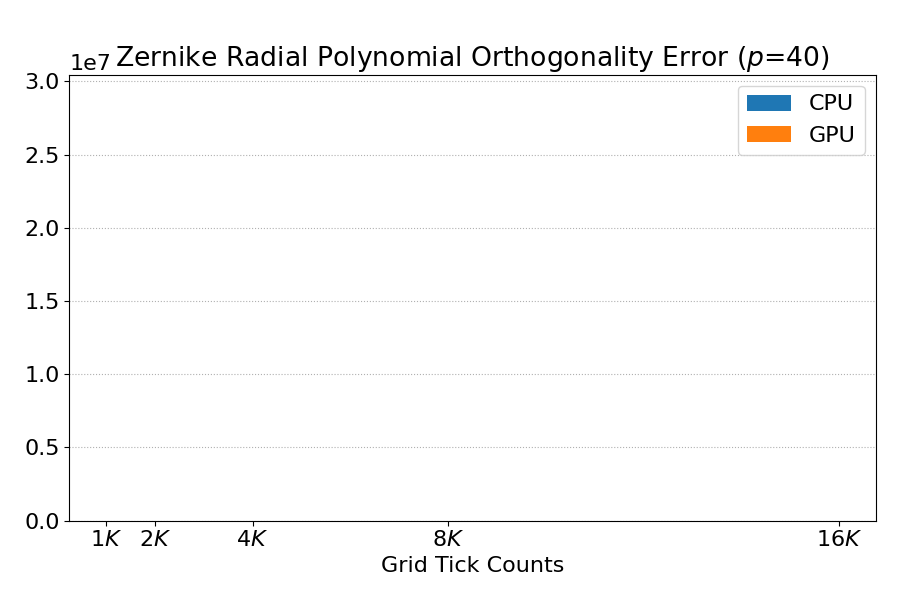
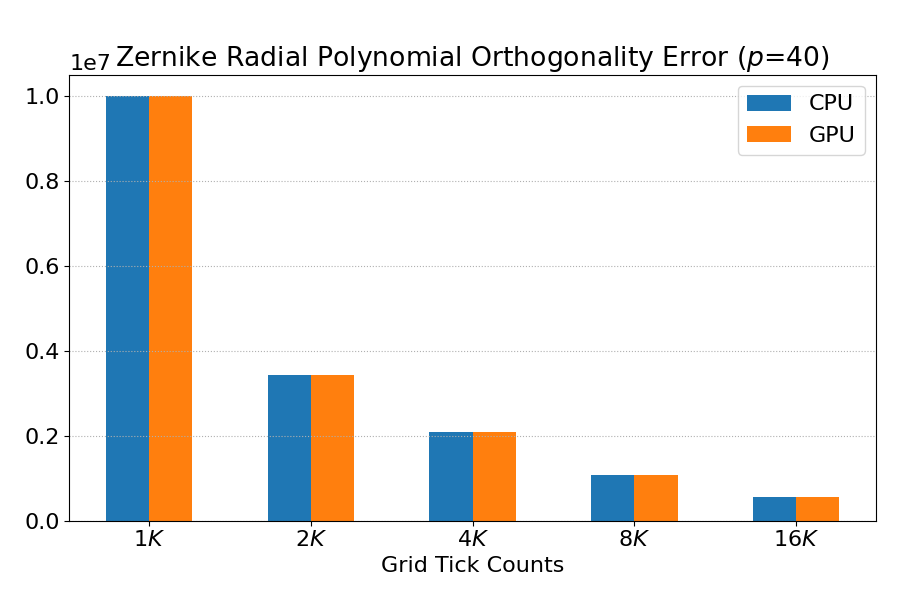
**

diff --git a/ATest_08_Zernike_Orth.py b/ATest_08_Zernike_Orth.py
@@ -169,7 +169,7 @@ def validte_radial_polynomial_ortho( T, debug=0) :
             dr = 1.0/grid_count
 
             rho = torch.linspace( 0, 1, grid_count, device=device )
-            print( "rho  len = ", len( rho ) )
+            print( f"rho  len = {len(rho):_}" )
             rho = rho[ torch.where( rho <= 1 ) ]
 
             error_sum = 0
@@ -178,34 +178,39 @@ def validte_radial_polynomial_ortho( T, debug=0) :
             hash= {}
 
             for p in range( 0, T + 1 ) :
-                for q in range( 0, T + 1 ) :
-                    for l in range( -q, q + 1 ) :
-                        if abs(l) > p or abs(l) > q:
-                            continue
-                        elif ( p - abs(l) )%2 == 1 :
-                            continue
-                        elif ( q - abs(l) )%2 == 1 :
-                            continue
+                for q in range( 0, p + 1 ) :
+                    for n in range( 0, T + 1 ) :
+                        for m in range( 0, n + 1 ) :
+                            if abs(q) > p or abs(m) > n:
+                                continue
+                            elif ( p - abs(q) )%2 == 1 :
+                                continue
+                            elif ( n - abs(m) )%2 == 1 :
+                                continue
+                            pass
+
+                            r_pq = Rpq( p, q, rho, device=device, hash=hash, debug=0 )
+                            r_nm = Rpq( n, m, rho, device=device, hash=hash, debug=0 )
+                            
+                            sum = torch.sum( r_pq*r_nm*rho*dr )*( 2*(p + 1) )
+
+                            expect = [0, 1][ p == q and n == m ]
+
+                            error = torch.abs( expect - sum )
+
+                            if not math.isnan( error ) : 
+                                error_sum += error
+                                error_cnt += torch.numel( r_pq )
+                            else :
+                                print( f"{__file__} : Nan is encountred." )
+                                True
+                            pass
+                            
+                            if debug :
+                                if expect == 1 : print( line )
+                                print( f"[{grid_count:04d}] R[{p:02d}][{q:02d}] , [{n:02d}][{n:02d}] : exptect = {expect}, sum = {sum}, error = {error}", flush=1 )
+                            pass
                         pass
-
-                        r_pl = Rpq( p, l, rho, device=device, hash=hash, debug=0 )
-                        r_ql = Rpq( q, l, rho, device=device, hash=hash, debug=0 )
-                        
-                        sum = torch.sum( r_pl*r_ql*rho*dr )*( 2*(p + 1) )
-
-                        expect = [0, 1][ p == q ]
-
-                        error = torch.abs( expect - sum )
-
-                        if not math.isnan( error ) : 
-                            error_sum += error
-                            error_cnt += torch.numel( r_pl )
-                        else :
-                            print( f"{__file__} : Nan is encountred." )
-                            True
-                        pass
-                        
-                        #debug and print( f"[{p:02d}][{q:02d}] : Rpl({p}, {l:2d})*Rql({q}, {l:2d}) = {sum}, exptect = {expect}, error = {error}", flush=1 )
                     pass
                 pass
             pass
@@ -220,10 +225,8 @@ def validte_radial_polynomial_ortho( T, debug=0) :
 
             if debug : 
                 print( line2 )
-                print( f"device = {device}" )
-                print( f"Radial Grid Count = {grid_count:_}, T = {T}" )
-                print( f"Elapsed time = {elapsed:,f}" )
-                print( f"Error average = {error_avg:,.10f}" )
+                print( f"device = {device}, Radial Grid Count = {grid_count:_}, T = {T}" )
+                print( f"Elapsed time = {elapsed:,.3f}, Error average = {error_avg:,.4f}" )
             pass
         pass
 
@@ -236,7 +239,7 @@ def validte_radial_polynomial_ortho( T, debug=0) :
         tab.extend( [ device_name, "Error" ] )
         tab.extend( error_avgs.copy() )
 
-        x = torch.tensor( resolutions  )
+        x = torch.log10( torch.tensor( resolutions  ) )
         error_avgs = torch.tensor( error_avgs )
         elapsed_list = torch.tensor( elapsed_list )
 
@@ -249,22 +252,22 @@ def validte_radial_polynomial_ortho( T, debug=0) :
         linestyle = "solid" if use_gpu else "dotted"
         color = "limegreen" if use_gpu else "violet"
 
-        w = 2
+        w = ( max( x ) - min( x ) )/ len( x ) / 3
         n = 2
         
         print( "x len = ", len( x ) )
         print( "error_avgs len = ", len( error_avgs ) )
-        #bar = chart.bar( x - w/2 + w*idx, error_avgs, width=w, label=f"{device_name}" )
-        bar = chart.bar( x, error_avgs, label=f"{device_name}" )
+        bar = chart.bar( x - w/2 + w*idx, error_avgs, width=w, label=f"{device_name}" )
         #chart.bar_label( bar, fmt='%.1f', fontsize=fs-2 )
 
         #chart.plot( x, elapsed_list, marker="s", linestyle=linestyle, label=f"{dn}:Elapsed Time(sec.)" )
         #chart.plot( x, error_avgs,   marker="D", linestyle=linestyle, label=f"{dn}:Orthogonality Error" )
+        
+        chart.set_xticks( x )
+        chart.set_xticklabels( [ f"{x/1_000:1.0f}$K$" for x in resolutions ] )
     pass
 
     #chart.set_ylim( int( ymin - 1 ), int( ymax + 1 ) )
-    chart.set_xticks( resolutions )
-    chart.set_xticklabels( [ f"{x/1_000:1.0f}$K$" for x in resolutions ] )
     
     chart.set_title( f"Zernike Radial Polynomial Orthogonality Error ($p$={T})" )
     chart.set_xlabel( "Grid Tick Counts" )

diff --git a/AZernike.py b/AZernike.py
@@ -1198,11 +1198,17 @@ print( "Zernike functions are defined.")
 print()
 
 if __name__ == "__main__" :
-    t = 0
+    t = 3
     s = torch.arange( 0, t + 1 ) 
-    s = numpy.arange( 0, t + 1 ) 
-    print( "facotrial(0) = ", factorial( s ) )
-    print_cpu_info()    
-    print()
-    print_gpu_info()
+    t = torch.arange( 0, t + 1 ) 
+
+    print( s*t )
+
+    if False : 
+        s = numpy.arange( 0, t + 1 ) 
+        print( "facotrial(0) = ", factorial( s ) )
+        print_cpu_info()    
+        print()
+        print_gpu_info()
+    pass
 pass
